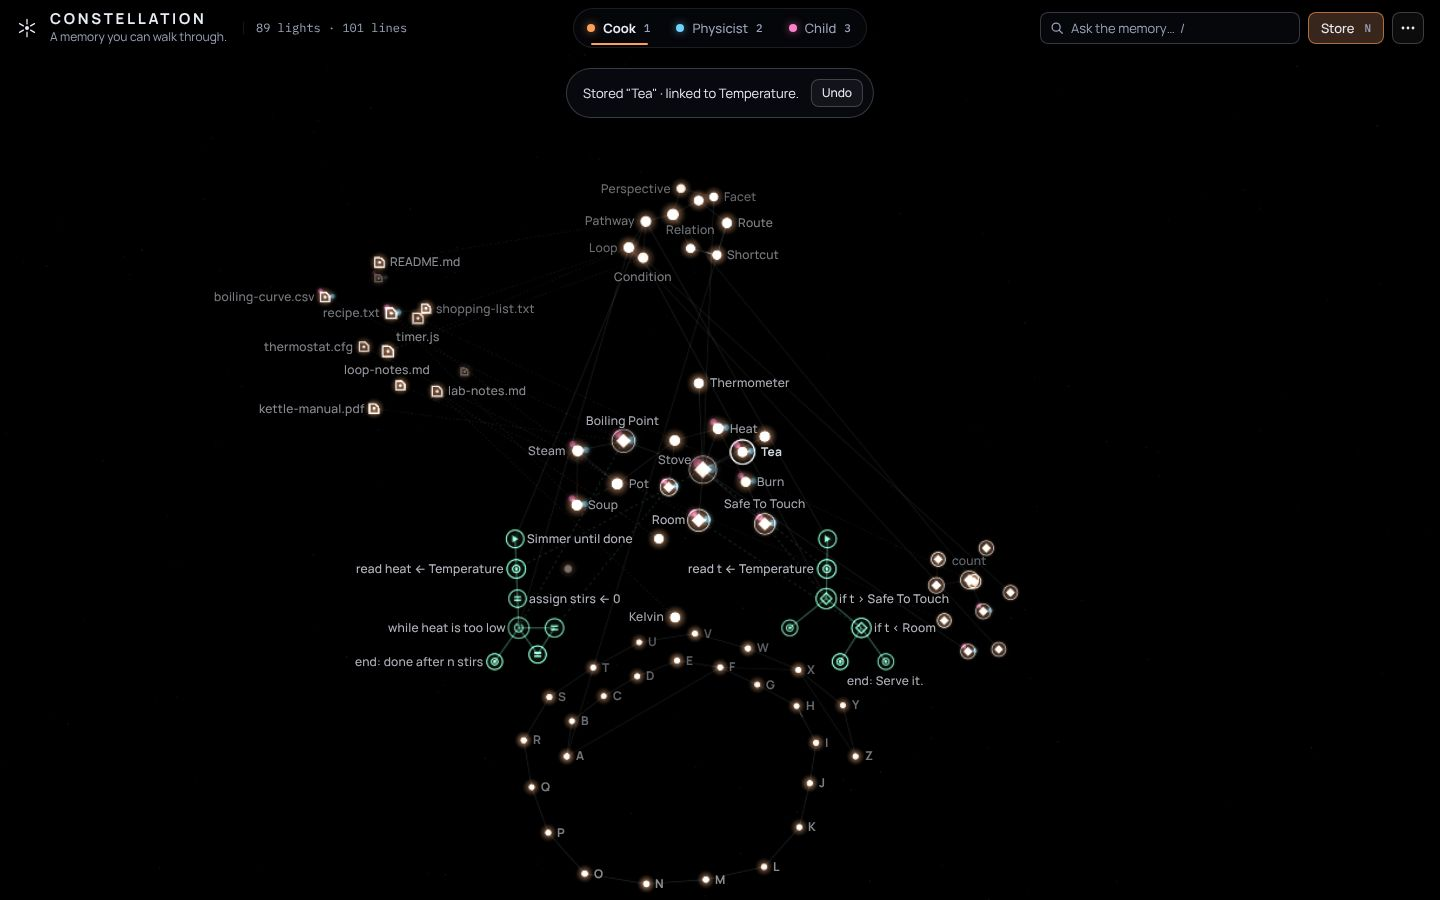
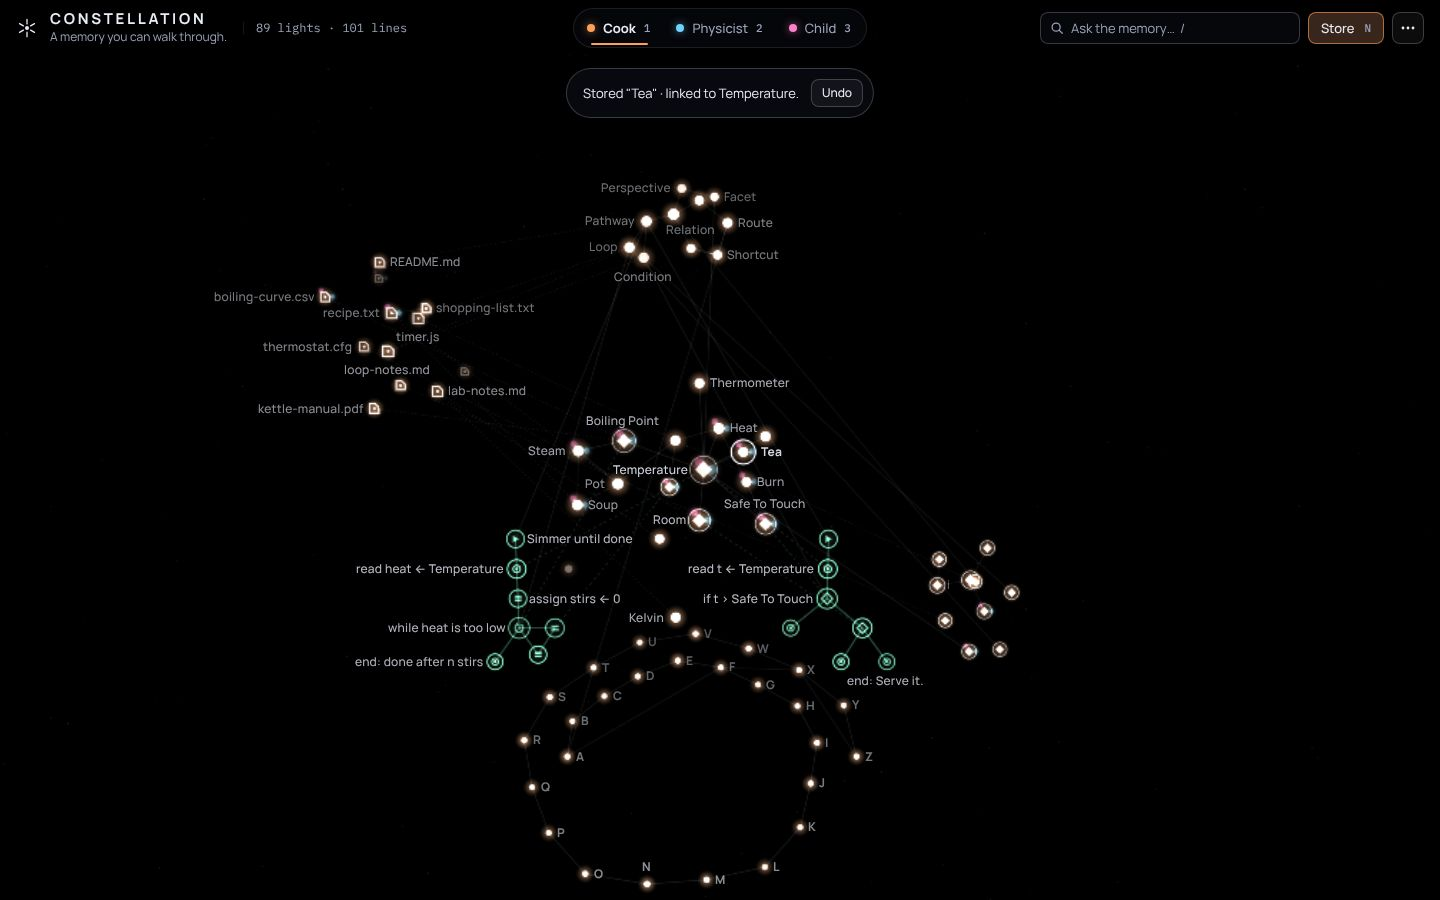
M-0002: polish verification r2 (6 verified, F-031 filed) and F-031 fix: hub names keep a side
Claude-Session: https://claude.ai/code/session_01WqXox6S8VfWSJDSPs8yKAW

diff --git a/projects/constellation/src/view/renderer.ts b/projects/constellation/src/view/renderer.ts
@@ -1382,7 +1382,7 @@ export const createRenderer: CreateRenderer = ({ container, reducedMotion }) => 
       if (ign < 0.06) continue;
       const depthFade = 1 - range(n.depth, 220 * kDist, 480 * kDist);
       const act = activation?.get(n.id);
-      let pr = 10 + Math.min(n.degree, 30) * 0.5;
+      let pr = 10 + Math.min(n.degree, 30) * 0.5 + (n.degree >= 8 && !n.road ? 20 : 0); // hubs name themselves first (F-031)
       if (n.road) pr = trails.length ? 75 : 50;
       if (selNbrs?.has(n.id)) pr = Math.max(pr, 60);
       if (act !== undefined && act <= 1) pr = act === 0 ? 80 : 70;
@@ -1405,9 +1405,10 @@ export const createRenderer: CreateRenderer = ({ container, reducedMotion }) => 
         cls: n.id === selected ? 'sel' : n.road ? 'road' : undefined,
         // Single road letters still declutter but don't spend the 40-word cap (F-015).
         isLabel: !n.road,
-        // Only the selected, hovered or route-named light's label may sit over other cores; everything
-        // else (hub names, run-lit steps, road letters) finds a free side or waits (F-030).
+        // Only the selected, hovered or route-named light's label sits over other cores outright. Hubs
+        // (degree ≥ 8) take a clear side when one exists and otherwise still keep their name (F-030, F-031).
         overCores: pr >= 90,
+        overCoresFallback: !n.road && n.degree >= 8,
         nodeId: n.id,
       });
       // Ghost chips when expanded; the active value sits on top (never as a ghost)
@@ -1504,7 +1505,7 @@ export const createRenderer: CreateRenderer = ({ container, reducedMotion }) => 
       });
     }
     const cores: Array<{ x: number; y: number; r: number; id: string }> = [];
-    for (const n of order) if (n.onScreen && n.bright > 0.1) cores.push({ id: n.id, x: n.sx, y: n.sy, r: (n.id === selected ? Math.max(n.pxR * 2.4, n.pxR + 7) : Math.max(3, n.pxR * (n.data.kind === 'pathway' ? 1.5 : 1))) + 1 });
+    for (const n of order) if (n.onScreen && n.bright > 0.1) cores.push({ id: n.id, x: n.sx, y: n.sy, r: (n.id === selected ? Math.max(n.pxR * 2.4, n.pxR + 7) : Math.max(3, n.pxR * (n.data.kind === 'pathway' ? 1.5 : n.data.kind === 'variable' ? 1.8 : 1))) + 1 }); // variables draw a ring at 1.8r (F-031)
     // Keep labels below the top bar (56 px; 100 px with the 375 lens row).
     overlay.place(items, cap, width, height, cores, width < 768 ? 104 : 60);
   }

diff --git a/projects/constellation/src/view/overlay.ts b/projects/constellation/src/view/overlay.ts
@@ -24,8 +24,10 @@ export interface OverlayItem {
   cls?: string;
   /** Placed even if it overlaps (still blocks later items). */
   force?: boolean;
-  /** May sit over other stars' cores (hubs, focus); never over text. */
+  /** May sit over other stars' cores (focus); never over text. */
   overCores?: boolean;
+  /** Tries every clear spot first, then may sit over other stars' cores (hub names, F-031). */
+  overCoresFallback?: boolean;
   /** Counts toward the label cap. */
   isLabel?: boolean;
   nodeId?: string;
@@ -125,13 +127,14 @@ export class Overlay {
       const h = f.h;
       let spot: { x: number; y: number } | null = null;
       const origins = it.spots ? [{ x: it.x, y: it.y }, ...it.spots] : [{ x: it.x, y: it.y }];
-      search: for (const o of origins) {
+      const passes = it.overCoresFallback && !it.overCores ? [true, false] : [!it.overCores];
+      search: for (const cores of passes) for (const o of origins) {
         for (const a of it.anchors) {
           const p = anchorAt(a, o.x, o.y, it.offset, w, h);
           // Never cross the viewport edge (8 px margin, F-026).
           if (p.x < 8 || p.y < minY || p.x + w > vw - 8 || p.y + h > vh - 8) continue;
-          // Chips and labels both keep off text and off star cores (F-020); hubs may sit over cores.
-          if (!it.force && overlaps(p.x, p.y, w, h, !it.overCores, it.nodeId)) continue;
+          // Chips and labels keep off text, and off star cores unless allowed (F-020, F-031).
+          if (!it.force && overlaps(p.x, p.y, w, h, cores, it.nodeId)) continue;
           spot = p;
           break search;
         }

diff --git a/bureau/missions/M-0002-constellation/log.md b/bureau/missions/M-0002-constellation/log.md
@@ -120,3 +120,11 @@ Chronological record kept by `bureau`. Append with `python3 bureau/bin/bureau lo
 - `2026-11-23T02:39:30Z` **ceo** — F-030 resolved: seed-source.ts: Heat radii ×1.6 (58/67/80), screen-plane declutter (19 u Heat, 13 u other; ring, flowcharts, rim orphans fixed), Cook ring 10 u lower; memory.json regenerated (U-persistence-2 green). overlay: items never block on their own star; only pr≥90 labels may sit over cores. probe: Heat min core gap 44/31/45 px (≥28), ring↔flowchart 53/89/135 px (≥40), labels over cores 0. evidence/ceo-r2/*.png, evidence/screens/F9-pulse-mid-loop-1440.jpg
 - `2026-11-23T02:39:30Z` **ceo** — Round 2 remediation done by the CEO (session ended; WO-002/WO-003 engineers not resumable; budget 6/8 kept for the independent verifier and the ship vote). Decision: §6 Heat radii ×1.6 and Cook ring −10 u (F-030). New tool scripts/probe-layout.mjs measures the targets. verify PASSED (85 unit, 17 e2e).
 - `2026-11-23T02:39:41Z` **ceo** — Convened 1× polish-critic — r2 verification of F-019/20/22/24/25/30; fresh (prior critic not resumable after session end)
+- `2026-11-23T02:45:18Z` **polish-critic** — F-019 verified: Before: overview inner halo chroma 12-14/255, F1 vs F5 cream vs blue-white (evidence/critic/r1v/F1-1440.jpg, evidence/critic/r1v/F5-1440.jpg). After: 6-8 px annulus around 16 Heat nodes median chroma ~26 Cook (mean RGB 126,106,92 at Pot), ~29 Physicist (109,129,138 at Pot); probe medians 32/31/26 (>=20). Side by side reads amber vs ice: evidence/critic/r2v/F019-F1-vs-F5-heat-x2.jpg, evidence/critic/r2v/F1-1440.jpg, evidence/critic/r2v/F5-1440.jpg
+- `2026-11-23T02:45:18Z` **polish-critic** — F-020 verified: Before: chips on cores/under Burn, 13 chips in a knot (evidence/critic/r1v/F5-1440.jpg). After at F5 t=1400: 16 chips = 8 nodes, all <=16 chars + ellipsis, borderless, 0 over cores or labels (probe), each beside its own tether; Temperature reads 293 K above, 20 °C left, 2 · warm below as the F5 spec asks (evidence/critic/r2v/F020-F5-heat-x3.jpg). Residual (not blocking): Room's '18 °C' sits 19 px from Boiling Point's core vs 57 px from Room's, touching BP's ring by ~4 px.
+- `2026-11-23T02:45:18Z` **polish-critic** — F-022 verified: Before: 1024 route row orphaned 'Z' (evidence/critic/r1v/F7-1024.jpg). After: row wraps 'A → B → C → … → X →' / 'Y → Z' (path box 120-299 x 370-405, 2 lines, last hop glued with NBSP); trace wraps only at ' · ' and units hold ('20 °C + 40 °C → 60 °C'): evidence/critic/r2v/F7-1024.jpg, evidence/critic/r2v/F9-1440.jpg
+- `2026-11-23T02:45:18Z` **polish-critic** — F-024 verified: Before: Tea ring overlapping Temperature's, ~19 px, label colliding (evidence/critic/r1v/F12-1440.jpg). After at F12 t=900: Tea-Temperature 44 px centre-to-centre, rings 18 px apart; nearest light Ice 27 px (10 px ring-to-core clear), Burn 30 px; Tea has its own bold label: evidence/critic/r2v/F12-900.jpg, evidence/critic/r2v/F024-F12-tea-x4.jpg. Side effect filed separately (Temperature loses its label).
+- `2026-11-23T02:45:18Z` **polish-critic** — F-025 verified: Before: 1024 ✕ overlapping the 'Results' tab (evidence/critic/r1v/F7-1024.jpg). After 1024: last tab right 261, ✕ 275-307 (32 px target), 14 px clear, glyph aligned to content edge 299; 1440: ✕ 307-339 in a 356 px panel (17 px right pad). Verdict 15/700 signal text, Learn filled. Chip gaps now 20 above / 28 below (not 8/12, but no longer cramped and still binds to the inputs): evidence/critic/r2v/F7-1024.jpg
+- `2026-11-23T02:45:18Z` **polish-critic** — F-030 verified: Before: Heat knot ~110 px, labels on cores, ring through Simmer (evidence/critic/r1v/F9-1440.jpg, evidence/critic/r1v/F12-1440.jpg). After: probe Heat min core gap 43.6/31.1/44.9 px (>=28), cluster 217x255 px Cook; ring-flowchart 52.9/89/134.9 px (>=40); labels over cores 0. F9: lowest Simmer node to S bead 46 px; 'while heat is too low' yields to the condition chip '60 °C < 100 °C → true', which says more at the moment of decision: accepted. evidence/critic/r2v/F030-F9-simmer-x3.jpg, evidence/critic/r2v/F9-1440.jpg, evidence/critic/r2v/probe/cook.jpg
+- `2026-11-23T02:45:24Z` **polish-critic** — F-031 [S2] filed: After storing Tea, Temperature loses its label at the overview and 'Stove' reads as its name
+- `2026-11-23T02:48:21Z` **ceo** — F-031 resolved: overlay.ts overCoresFallback: hub names (degree ≥ 8) try every clear spot, then may sit over cores (never text); hubs +20 priority so they claim a side first; variable label blocker = 1.8r (their ring). evidence/screens/F12-stored-1440.jpg: Temperature labelled above-left of its diamond, Stove yields, Tea clear. verify PASSED; probe labels over cores 0 in all lenses

diff --git a/bureau/missions/M-0002-constellation/reviews/polish-critic-r2.md b/bureau/missions/M-0002-constellation/reviews/polish-critic-r2.md
@@ -1,0 +1,44 @@
+# Review — polish-critic — round 2 verification — M-0002
+
+VERDICT: PASS WITH FINDINGS
+
+## Scope reviewed
+F-019, F-020, F-022, F-024, F-025, F-030 at base commit d0d51e6. Each is judged against its original "should be", not the fixer's claim.
+
+## Method
+I built the product, served it with `vite preview :4181` and ran the probe (`evidence/critic/r2v/probe/`). I also made my own Playwright captures at DSF 1: F1 and F5 at 1440, F7 at 1024, F9 mid-loop, F11, and F12 at 150/300/500/900/6000 ms. Crops are at 2–4× zoom, and the drawer geometry was measured in the DOM. Everything is in `evidence/critic/r2v/`.
+
+## Verification (before → after)
+| ID | Result | Numbers |
+|---|---|---|
+| F-019 | **Verified** | Overview halo chroma went from 12–14 to a median of ~26 (Cook) and ~29 (Physicist) in the 6–8 px annulus. Probe: 32/31/26. Reads amber against ice (`F019-F1-vs-F5-heat-x2.jpg`). |
+| F-020 | **Verified** | 16 chips on 8 nodes, all ≤16 chars, borderless, 0 over cores or labels. Temperature: 293 K above, 20 °C left, 2 · warm below, per spec (`F020-F5-heat-x3.jpg`). Residual: Room's "18 °C" sits 19 px from Boiling Point's core and 57 px from Room's own. |
+| F-022 | **Verified** | At 1024 the row wraps "… → X →" / "Y → Z"; Z no longer orphaned. The trace wraps only at " · " (`F7-1024.jpg`, `F9-1440.jpg`). |
+| F-024 | **Verified** | Tea–Temperature 44 px (was ~19); rings 18 px apart. Nearest: Ice at 27 px, still 10 px clear. Tea has its own label (`F024-F12-tea-x4.jpg`). |
+| F-025 | **Verified** | At 1024: ✕ spans 275–307, last tab ends at 261, so 14 px clear. At 1440: 17 px right pad. Chip gaps 20/28 px, not 8/12, but no longer cramped. |
+| F-030 | **Verified** | Heat minimum core gap 43.6/31.1/44.9 px (≥28). Ring-to-flowchart 52.9/89/135 px (≥40). F9: Simmer's lowest node is 46 px from the S bead. |
+
+**The CEO's question:** letting "while heat is too low" give way to the condition chip during a run is **acceptable**. `60 °C < 100 °C → true` says more at the moment of decision, and the drawer trace names the step.
+
+## Findings filed
+| ID | Sev | Title | Where |
+|---|---|---|---|
+| F-031 | S2 | After Tea is stored, Temperature loses its label and "Stove" reads as its name | F12 and every later Cook overview |
+
+This is a round-2 regression. Tea's new birthplace takes Temperature's right-hand label slot, and the new rule lets only labels with pr ≥ 90 cross cores. The hub goes unnamed at 900, 2500 and 6000 ms, and this persists after reload (`F12-settled-6000.jpg`).
+
+## Noted, not filed
+- **F5 (pre-existing, also in r1):** Temperature, Room and Boiling Point are unlabelled while the chips are expanded.
+- **F9 (S3):** step P5, "assign heat ← …", is unlabelled because ring bead V takes its only free side.
+
+## Five tests
+- **Flagship:** close. The one miss is the unnamed hub in F12 and F5.
+- **Second-Look:** pass at 3–4× zoom.
+- **Stranger:** partial, because the F5 chips orbit a star with no name.
+- **Owner:** pass once F-031 is fixed.
+- **Ten-second:** pass. F1 reads Heat, then the flowcharts, then the ring.
+
+## Overall assessment
+All six findings are verified with numbers. There is one new S2 (F-031) and no S0 or S1.
+
+**Ship readiness:** shippable with findings. F-031 should be fixed first; it is about one priority rule.
